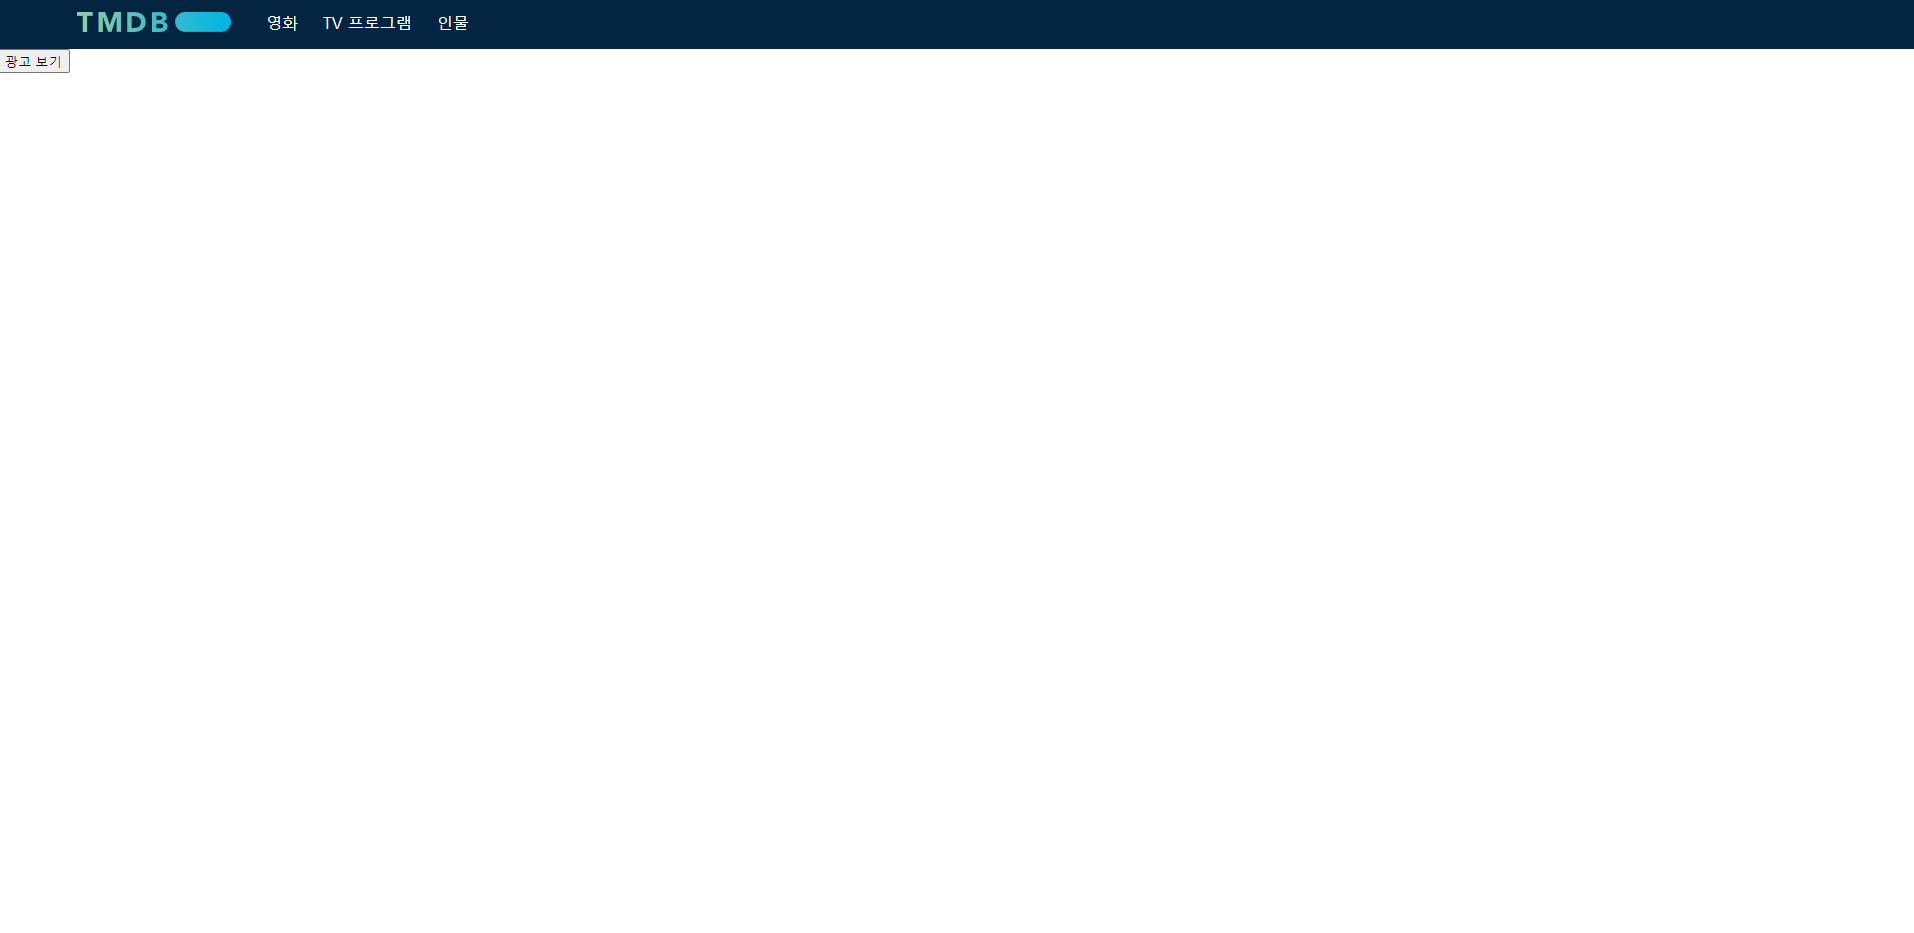
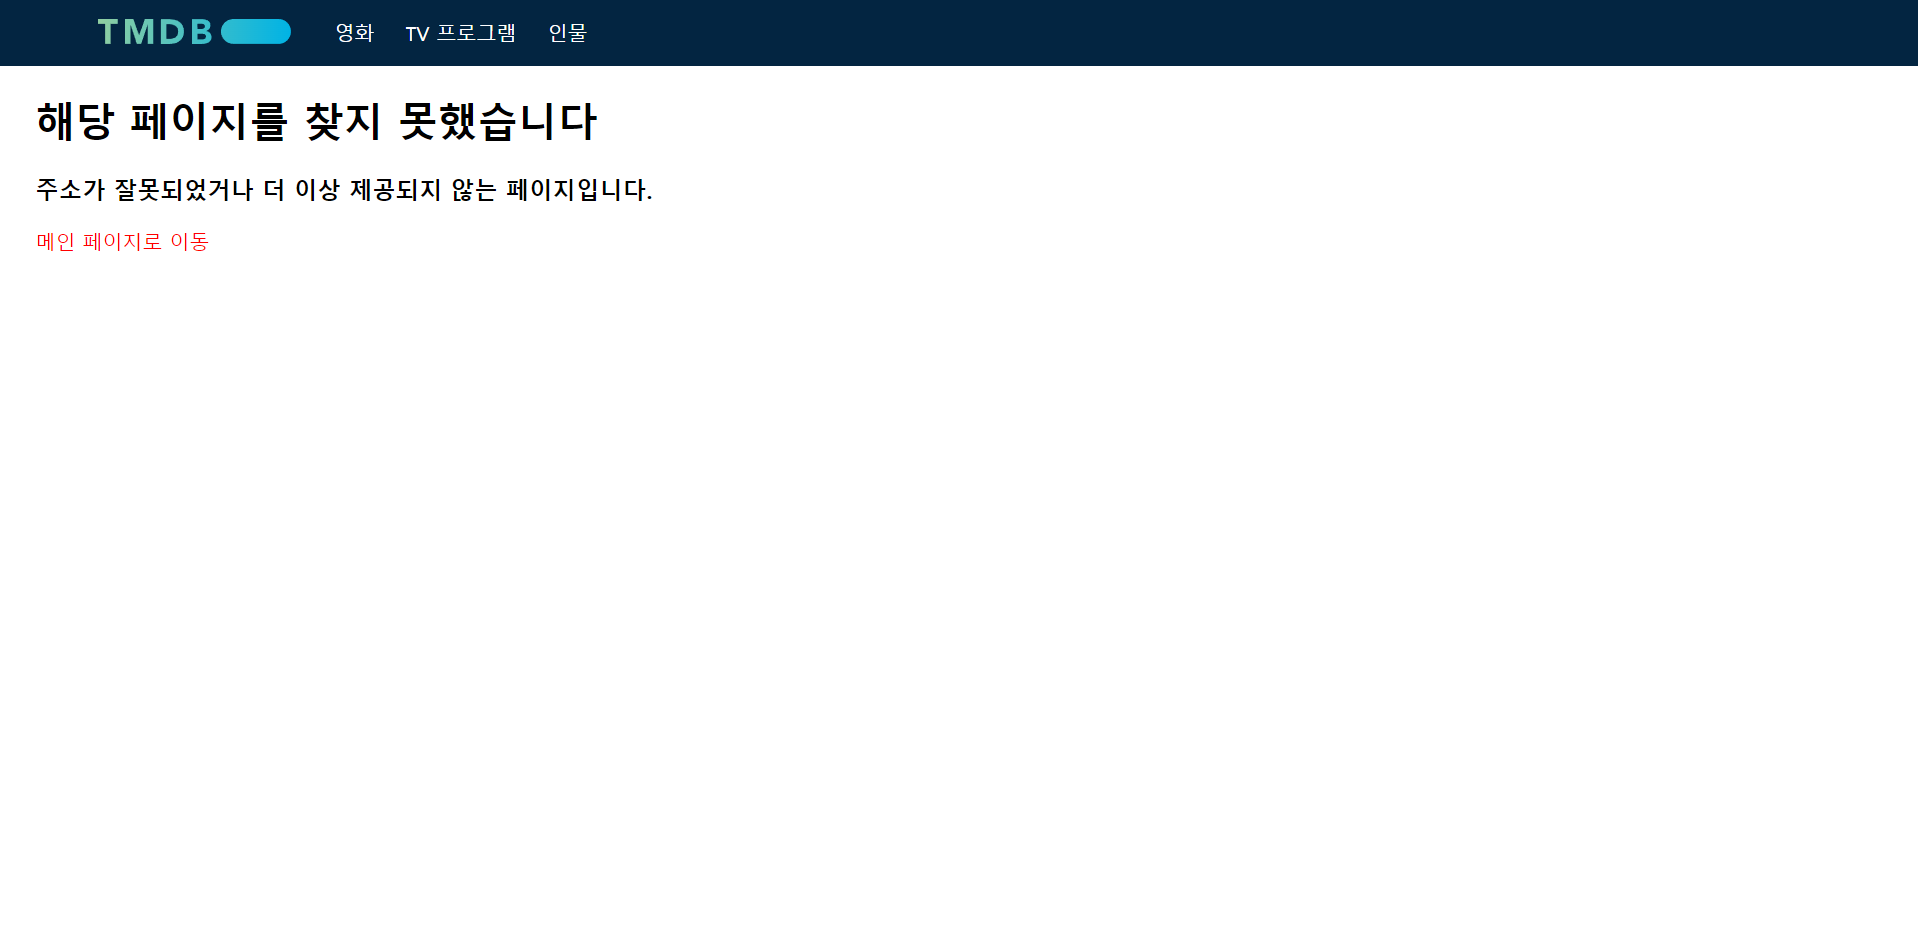
Feat : Ch6 add

Changed region(s): [[0.0, 0.0, 1.0, 0.1556], [0.0, 0.1867, 0.3391, 0.2178], [0.0, 0.2489, 0.1233, 0.28]]

diff --git a/src/App.js b/src/App.js
@@ -6,6 +6,7 @@ import Celebrity from "./pages/Celebrity.jsx";
 import Home from "./pages/Home.jsx";
 import movies from "./movieDummy.js";
 import NotFound from "./pages/NotFound.jsx";
+import MovieDetail from "./pages/MovieDetail.jsx";
 
 function App() {
   document.body.style.margin = 0;
@@ -26,12 +27,14 @@ function App() {
                       poster={item.poster_path}
                       date={item.release_date}
                       overview={item.overview}
+                      id={item.id}
                     />
                   );
                 })}
               </div>
             }
           />
+          <Route path="/Movie/:name" element={<MovieDetail />} />
           <Route path="/TV" element={<TV />} />
           <Route path="/Celebrity" element={<Celebrity />} />
           <Route path="*" element={<NotFound />} />

diff --git a/src/pages/Movie.jsx b/src/pages/Movie.jsx
@@ -1,12 +1,21 @@
 import "../index.css";
 import { useState } from "react";
-export default function Movie({ name, poster, date, overview }) {
+import { useNavigate } from "react-router-dom";
+
+export default function Movie({ name, poster, date, overview, id }) {
   const [isHovering, setIsHovering] = useState(0);
+  const navigate = useNavigate();
+
+  const onClickImg = () => {
+    navigate(`${name}`, { state: { name, poster, overview } });
+  };
+
   return (
     <span
       className="wrapper"
       onMouseOver={() => setIsHovering(1)}
       onMouseOut={() => setIsHovering(0)}
+      onClick={onClickImg}
     >
       <div className="overview">
         {isHovering ? (

diff --git a/src/pages/NotFound.jsx b/src/pages/NotFound.jsx
@@ -1,5 +1,19 @@
+import "../index.css";
 import React from "react";
+import { useNavigate } from "react-router-dom";
 
 export default function NotFound() {
-  return <div>NotFound</div>;
+  const navigate = useNavigate();
+  const toHome = () => {
+    navigate("/");
+  };
+  return (
+    <div className="notfound">
+      <h1>해당 페이지를 찾지 못했습니다</h1>
+      <h3>주소가 잘못되었거나 더 이상 제공되지 않는 페이지입니다.</h3>
+      <div className="toHome" onClick={toHome}>
+        메인 페이지로 이동
+      </div>
+    </div>
+  );
 }

diff --git a/src/pages/MovieDetail.jsx b/src/pages/MovieDetail.jsx
@@ -1,0 +1,16 @@
+import { useLocation } from "react-router-dom";
+import "../index.css";
+
+export default function MovieDetail() {
+  const { state } = useLocation();
+  return (
+    <div className="detail">
+      <img
+        src={`https://www.themoviedb.org/t/p/w600_and_h900_bestv2/${state.poster}`}
+        alt={state.name}
+        className="detailposter"
+      />
+      <span className="detailname">{state.name}</span>
+    </div>
+  );
+}

diff --git a/src/index.css b/src/index.css
@@ -69,7 +69,28 @@
   padding: 0;
 }
 .links li {
-  color: white !important;
+  color: white;
   float: left;
   padding-left: 25px;
+}
+.detail {
+  padding-top: 20px;
+}
+.detailposter {
+  width: 250px;
+  height: 400px;
+  margin-left: 100px;
+  margin-right: 30px;
+}
+.detailname {
+  vertical-align: top;
+  font-size: 30px;
+}
+.notfound {
+  margin-left: 30px;
+}
+.toHome {
+  color: red;
+  cursor: pointer;
+  width: 10em;
 }

diff --git a/README.md b/README.md
@@ -1,15 +1,9 @@
-# Chapter 5. Handling Event & Conditional Rendering
+# Chapter 6. LifeCycle & Hook
 
-실습 : Navigation Header와 Home 페이지를 구현
+실습 : Navigation Header, 영화 상세 페이지로의 이동을 구현
 
-[구현 page link](https://promleepracticech5.netlify.app/)
+[구현 page link](https://promleepracticech6.netlify.app/)
 
-![구현 image](sources/result1.png)  
+![구현 image](sources/result1.png)
 
-![구현 image](sources/result2.png)  
-
-![구현 image](sources/result3.png)  
-
-![구현 image](sources/result4.png)  
-
-![구현 image](sources/result5.png)  
+![구현 image](sources/result2.png)
